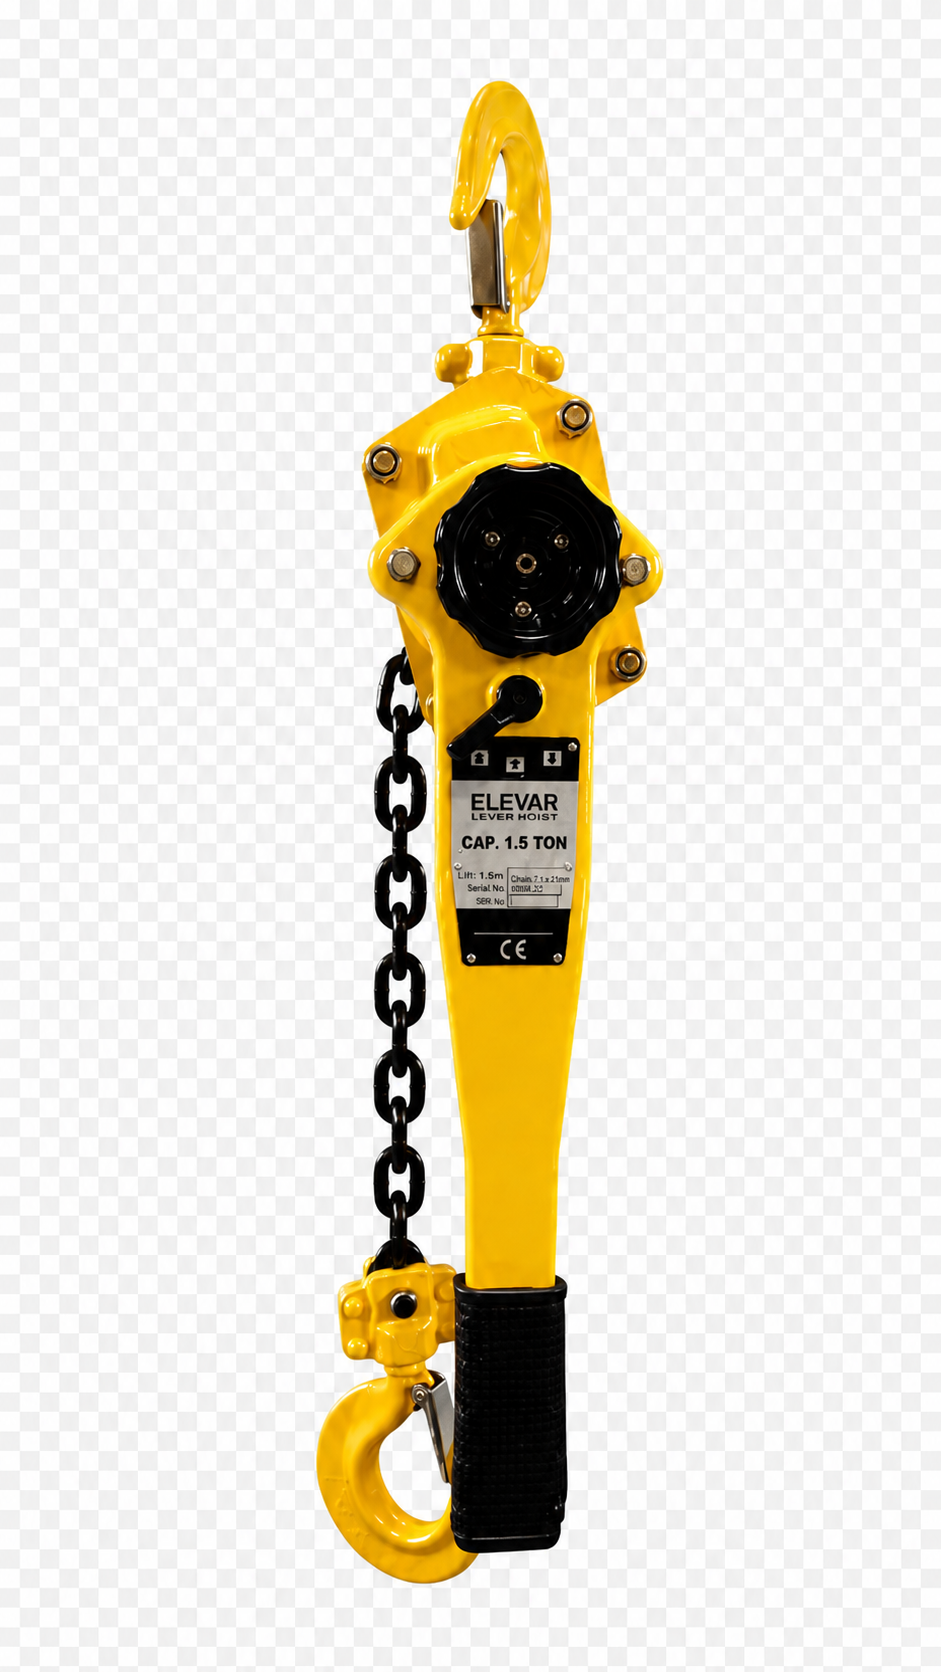
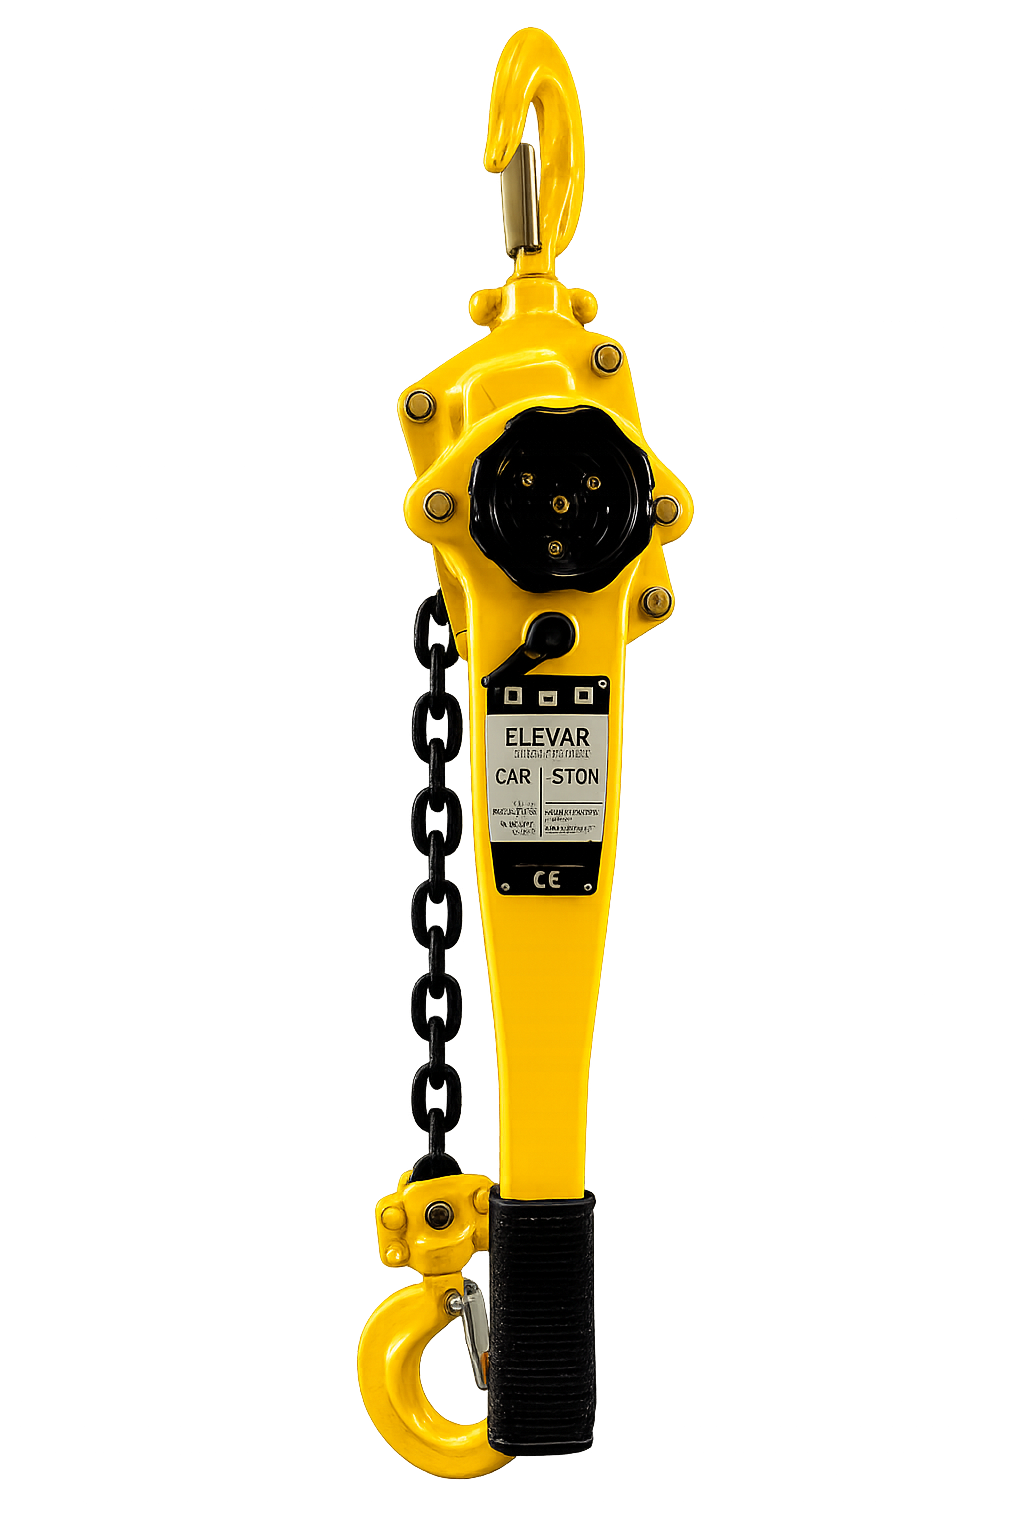
feat: update product images and specs with new formats and dimensions

Changed region(s): [[0.339, 0.0, 0.7088, 0.9688]]

diff --git a/data/products.ts b/data/products.ts
@@ -101,10 +101,10 @@ export const products: Product[] = [
         "Tabela da versão 1 velocidade. Versão 2 velocidades: potências de 0,37/1,1 a 3/1,1 kW e elevação de 0,9 a 7,2 m/min.",
     },
     image: {
-      src: "/products/talha-eletrica-tm.jpg",
-      width: 341,
-      height: 866,
-      alt: "Talha elétrica de corrente Elevar série TM de 1 tonelada com botoeira pendente",
+      src: "/products/talha-eletrica-tm.png",
+      width: 1024,
+      height: 1536,
+      alt: "Talha elétrica de corrente Elevar série TM, corpo amarelo com corrente e botoeira",
       transparent: true,
     },
     source: "CATALOGO_2026",
@@ -139,10 +139,10 @@ export const products: Product[] = [
       note: "Elevação de 6 m. Potência de elevação conforme tabela da série TM.",
     },
     image: {
-      src: "/products/talha-eletrica-trole.webp",
-      width: 368,
-      height: 618,
-      alt: "Talha elétrica Elevar com trole elétrico acoplado para translação sobre viga",
+      src: "/products/talha-eletrica-trole.png",
+      width: 1024,
+      height: 1536,
+      alt: "Talha elétrica de corrente Elevar com trole, montada em barra de translação",
       transparent: true,
     },
     source: "CATALOGO_2026",
@@ -176,10 +176,10 @@ export const products: Product[] = [
       note: "Velocidades de elevação de 1 a 2,5 m/min conforme capacidade.",
     },
     image: {
-      src: "/products/talha-eletrica-dhy.webp",
+      src: "/products/talha-eletrica-dhy.png",
       width: 1024,
       height: 1536,
-      alt: "Talha elétrica de corrente Elevar série DHY com corpo circular amarelo e gancho giratório",
+      alt: "Talha elétrica de corrente Elevar série DHY, corpo circular amarelo com corrente de carga",
       transparent: true,
     },
     source: "CATALOGO_2026",
@@ -242,9 +242,9 @@ const extraProducts: Product[] = [
     refCode: "TAL.ALA",
     image: {
       src: "/products/talha-alavanca-tae.png",
-      width: 941,
-      height: 1672,
-      alt: "Talha manual de alavanca Elevar série TAE de 1,5 t com corrente de carga e gancho com trava",
+      width: 1024,
+      height: 1536,
+      alt: "Talha manual de alavanca Elevar série TAE, corpo amarelo com corrente de carga e gancho com trava",
       transparent: true,
     },
     specHighlights: [
@@ -277,6 +277,13 @@ const extraProducts: Product[] = [
       "Locais com pouca distância entre a viga e a carga, onde a altura recolhida do gancho é determinante.",
     capacity: "2 – 10 t",
     refCode: "TBA",
+    image: {
+      src: "/products/talha-baixa-altura-tba.png",
+      width: 1024,
+      height: 1536,
+      alt: "Talha de baixa altura Elevar série TBA, corpo amarelo de perfil reduzido com corrente de carga",
+      transparent: true,
+    },
     specHighlights: [
       { label: "Capacidade", value: "2 a 10 t" },
       { label: "Elevação", value: "5 m" },
@@ -310,6 +317,13 @@ const extraProducts: Product[] = [
       "Pontes rolantes e pórticos de médio e grande porte, em movimentação contínua de 1 a 20 t.",
     capacity: "1 – 20 t",
     refCode: "TBE",
+    image: {
+      src: "/products/talha-eletrica-cabo-tbe.png",
+      width: 1536,
+      height: 1024,
+      alt: "Talha elétrica de cabo de aço Elevar série TBE, unidade horizontal com tambor enrolador e moitão inferior",
+      transparent: true,
+    },
     specHighlights: [
       { label: "Capacidade", value: "1 a 20 t" },
       { label: "Grupo", value: "FEM M4 / 1Am" },
@@ -345,6 +359,13 @@ const extraProducts: Product[] = [
       "Monovias e vigas I em que a carga precisa percorrer o vão com posicionamento exato, sem energia elétrica.",
     capacity: "0,5 – 10 t",
     refCode: "TRO-MEC",
+    image: {
+      src: "/products/trole-mecanico-tme.png",
+      width: 1024,
+      height: 1536,
+      alt: "Trole mecânico Elevar série TME em viga, corpo amarelo acionado por corrente manual",
+      transparent: true,
+    },
     specHighlights: [
       { label: "Capacidade", value: "0,5 a 10 t" },
       { label: "Aba da viga", value: "68 a 180 mm" },
@@ -377,6 +398,13 @@ const extraProducts: Product[] = [
       "Deslocamento horizontal de cargas em vigas I, em operações pontuais ou de baixo ciclo.",
     capacity: "1 – 5 t",
     refCode: "TRO-MAN",
+    image: {
+      src: "/products/trole-manual-te.png",
+      width: 1024,
+      height: 1536,
+      alt: "Trole manual Elevar série TE, carro de translação amarelo e preto para viga, sem motor",
+      transparent: true,
+    },
     specHighlights: [
       { label: "Capacidade", value: "1 a 5 t" },
       { label: "Aba da viga", value: "68 a 175 mm" },
@@ -406,6 +434,13 @@ const extraProducts: Product[] = [
       "Monovias e pontes com ciclos frequentes de translação, integrável a talhas elétricas.",
     capacity: "1 – 5 t",
     refCode: "TEE",
+    image: {
+      src: "/products/trole-eletrico-tee.png",
+      width: 1536,
+      height: 1024,
+      alt: "Trole elétrico Elevar série TEE, carro de translação amarelo com motor elétrico",
+      transparent: true,
+    },
     specHighlights: [
       { label: "Capacidade", value: "1 a 5 t" },
       { label: "Aba da viga", value: "74 a 210 mm" },
@@ -435,6 +470,13 @@ const extraProducts: Product[] = [
       "Tração, arraste e tensionamento em campo, montagem de estruturas e resgate de equipamentos.",
     capacity: "0,8 – 5,4 t",
     refCode: "GUI.ALA",
+    image: {
+      src: "/products/guincho-alavanca-gae.png",
+      width: 1536,
+      height: 1024,
+      alt: "Guincho de alavanca Elevar série GAE, corpo cinza em alumínio acionado por alavanca manual para cabo de aço",
+      transparent: true,
+    },
     specHighlights: [
       { label: "Capacidade", value: "0,8 a 5,4 t" },
       { label: "Arraste", value: "1,25 a 8,1 t" },
@@ -465,6 +507,13 @@ const extraProducts: Product[] = [
       "Içamento vertical de cargas leves a médias em oficinas, obras e fachadas; regime moderado S3 20% 10 min.",
     capacity: "100 – 1.000 kg",
     refCode: "GEF",
+    image: {
+      src: "/products/guincho-eletrico-gef.png",
+      width: 1024,
+      height: 1536,
+      alt: "Guincho elétrico de cabo de aço Elevar série GEF, corpo vermelho com tambor e cabo de aço",
+      transparent: true,
+    },
     specHighlights: [
       { label: "Capacidade", value: "100 a 1.000 kg" },
       { label: "Elevação", value: "12 / 6 m" },
@@ -495,6 +544,13 @@ const extraProducts: Product[] = [
       "Desvio de cabo em sistemas de içamento e arraste, ampliando o alcance e o ângulo de trabalho.",
     capacity: "1 – 28 t",
     refCode: "PAT / PATG",
+    image: {
+      src: "/products/patesca-elevar.png",
+      width: 1024,
+      height: 1536,
+      alt: "Patesca Elevar, roldana simples amarela com gancho para desvio de cabo de aço",
+      transparent: true,
+    },
     specHighlights: [
       { label: "Capacidade", value: "1 a 28 t" },
       { label: "Roldana", value: "Ø 100 a 610 mm" },
@@ -530,6 +586,13 @@ const extraProducts: Product[] = [
       "Composição de talhas de cabo e sistemas de içamento manuais, multiplicando a capacidade pela quantidade de roldanas.",
     capacity: "250 – 5.000 kg",
     refCode: "MOI / CAD",
+    image: {
+      src: "/products/moitoes-cadernais.png",
+      width: 1024,
+      height: 1536,
+      alt: "Moitão Elevar de roldana múltipla, corpo amarelo com gancho de segurança",
+      transparent: true,
+    },
     specHighlights: [
       { label: "Roldana", value: "Ø 45 a 150 mm" },
       { label: "Corda", value: '3/8" a 1.1/8"' },
@@ -563,6 +626,13 @@ const extraProducts: Product[] = [
       "Sistemas de içamento de grande porte e tração pesada, com terminação em gancho ou olhal.",
     capacity: "3,5 – 70 t",
     refCode: "CEP",
+    image: {
+      src: "/products/cadernal-extra-pesado-cep.png",
+      width: 1536,
+      height: 1024,
+      alt: "Cadernal extra pesado Elevar série CEP, par de blocos de roldanas amarelos com gancho",
+      transparent: true,
+    },
     specHighlights: [
       { label: "Roldana", value: '6" a 20.1/2"' },
       { label: "Cabo de aço", value: '1/2" a 1.3/8"' },
@@ -597,6 +667,13 @@ const extraProducts: Product[] = [
       "Ponto de engate em talhas, patescas e sistemas de cabo, dimensionado pela capacidade nominal.",
     capacity: "0,5 – 15 t",
     refCode: "GAN",
+    image: {
+      src: "/products/gancho-com-olhal.png",
+      width: 1024,
+      height: 1536,
+      alt: "Gancho com olhal Elevar em aço forjado, com trava de segurança",
+      transparent: true,
+    },
     specHighlights: [
       { label: "Capacidade", value: "0,5 a 15 t" },
       { label: "Peso", value: "0,2 a 9 kg" },